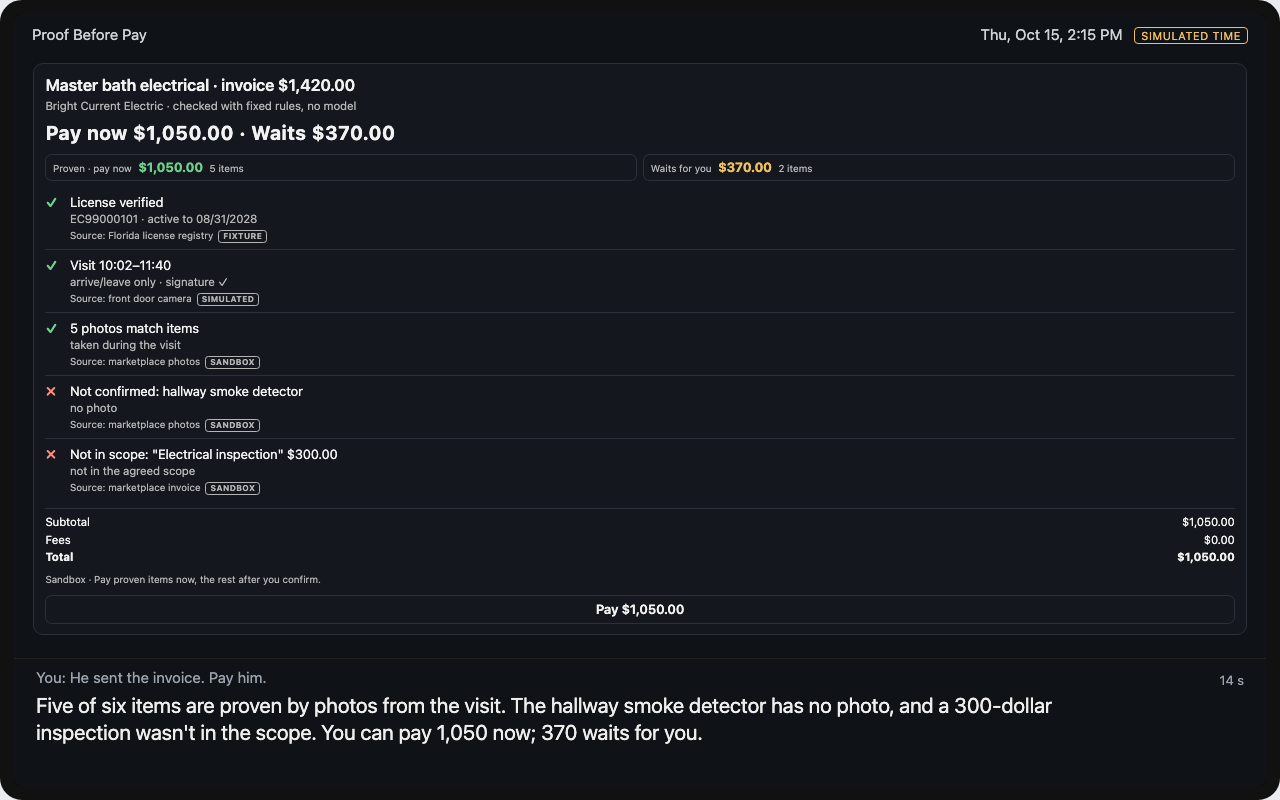
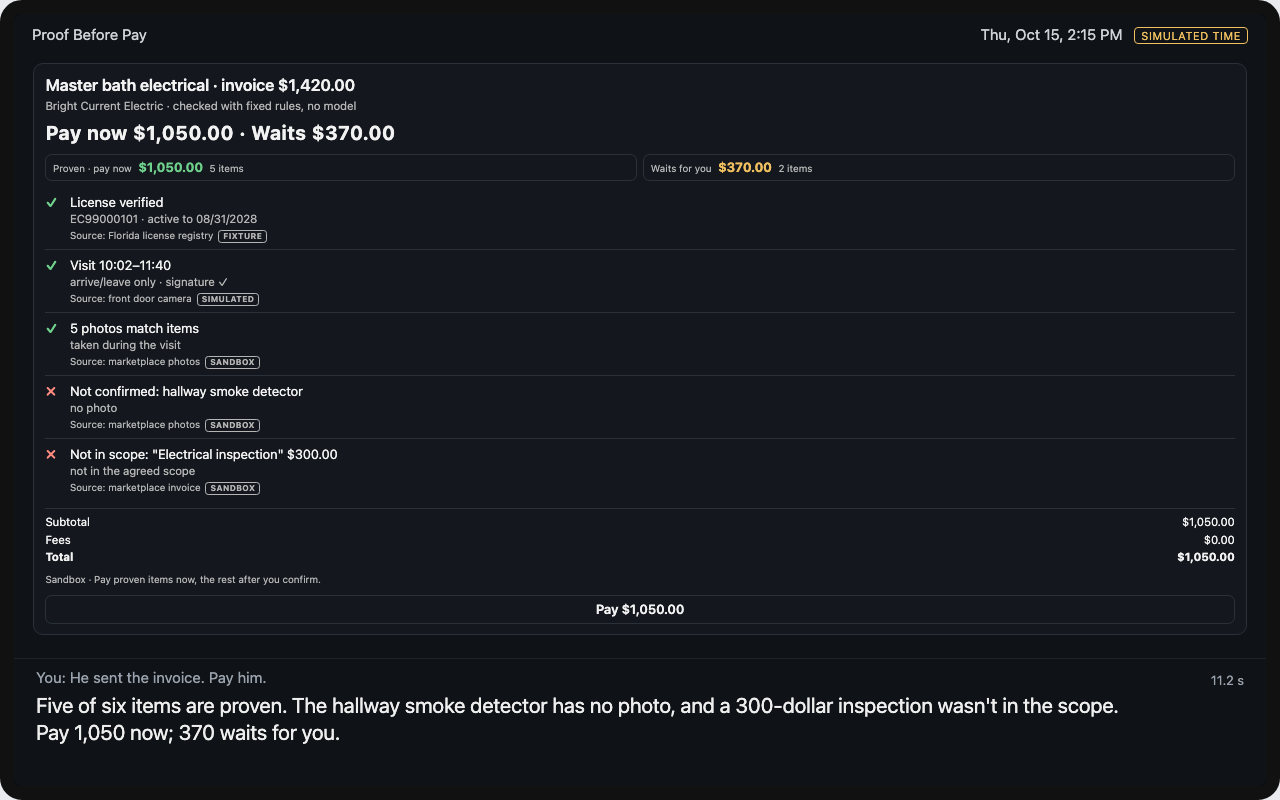
Shorter beat 2 and 3 lines per SPEC 7.5 revision; voice budget check passes

Changed region(s): [[0.0312, 0.875, 0.875, 0.9375], [0.9375, 0.8438, 0.9688, 0.875]]

diff --git a/server/format.ts b/server/format.ts
@@ -103,9 +103,10 @@ export function voiceFindPros(trade: string, pros: ProView[], recommended: ProVi
 
 export function voiceBookReadBack(proName: string, start: number, end: number, itemCount: number, total: number, proConsents: boolean): string {
   const consent = proConsents
-    ? "They agreed your front door camera logs arrival and departure."
+    ? "They agreed your door camera logs arrival and departure."
     : "They didn't agree to visit logging, so items can't be checked against a visit.";
-  return `${shortName(proName)}, ${spokenSlot(start, end)}: ${numberWord(itemCount)} items, ${spokenAmount(total)} dollars, paid only for items proven by a photo. ${consent} Book it?`;
+  void itemCount; // the card lists the items; the spoken read-back stays short (SPEC §7.5 rev. 2026-10-10)
+  return `${shortName(proName)}, ${spokenSlot(start, end)}, ${spokenAmount(total)} dollars, paid per proven item. ${consent} Book it?`;
 }
 export const VOICE_BOOKED = "Booked. The confirmation is in your Alexa app.";
 
@@ -130,10 +131,10 @@ export function voiceReview(job: Job, plan: PaymentPlan): string {
     else if (v.kind === "over_scope") issues.push(`${spokenAmount(l.waits)} dollars on the ${spokenLine(l.line.chargeDescription)} is above the scope`);
   }
   const head = provenIds.size === items.length
-    ? `All ${numberWord(items.length)} items are proven by photos from the visit.`
-    : `${cap(numberWord(provenIds.size))} of ${numberWord(items.length)} items are proven by photos from the visit.`;
+    ? `All ${numberWord(items.length)} items are proven.`
+    : `${cap(numberWord(provenIds.size))} of ${numberWord(items.length)} items are proven.`;
   const mid = issues.length ? ` ${cap(joinAnd(issues))}.` : "";
-  const tail = plan.waits > 0 ? ` You can pay ${spokenAmount(plan.payNow)} now; ${spokenAmount(plan.waits)} waits for you.` : ` You can pay ${spokenAmount(plan.payNow)} now.`;
+  const tail = plan.waits > 0 ? ` Pay ${spokenAmount(plan.payNow)} now; ${spokenAmount(plan.waits)} waits for you.` : ` Pay ${spokenAmount(plan.payNow)} now.`;
   return `${head}${mid}${tail}`;
 }
 

diff --git a/verify/protocol.ts b/verify/protocol.ts
@@ -22,9 +22,9 @@ const MODES = new Set(["live", "fixture", "sandbox", "simulated"]);
 // SPEC §7.5 lines, word for word.
 export const SPEC_LINES = {
   find: "Three electricians nearby. Quick Volt's license isn't in Florida's registry, so I left them out. Bright Current is licensed, 4.8 stars, 1,120 dollars. Want them?",
-  readBack: "Bright Current, Thursday 10 to noon: six items, 1,120 dollars, paid only for items proven by a photo. They agreed your front door camera logs arrival and departure. Book it?",
+  readBack: "Bright Current, Thursday 10 to noon, 1,120 dollars, paid per proven item. They agreed your door camera logs arrival and departure. Book it?",
   booked: "Booked. The confirmation is in your Alexa app.",
-  review: "Five of six items are proven by photos from the visit. The hallway smoke detector has no photo, and a 300-dollar inspection wasn't in the scope. You can pay 1,050 now; 370 waits for you.",
+  review: "Five of six items are proven. The hallway smoke detector has no photo, and a 300-dollar inspection wasn't in the scope. Pay 1,050 now; 370 waits for you.",
   checkoutPrompt: "Paying 1,050 dollars to Bright Current with Visa ending 4242. Say your voice code.",
   checkoutDone: "Order confirmed. The other 370 stays unpaid until you say so.",
   status: "Two things: the hallway smoke detector needs a photo, and the 300-dollar inspection line is your call. Want a draft note to Bright Current?",
